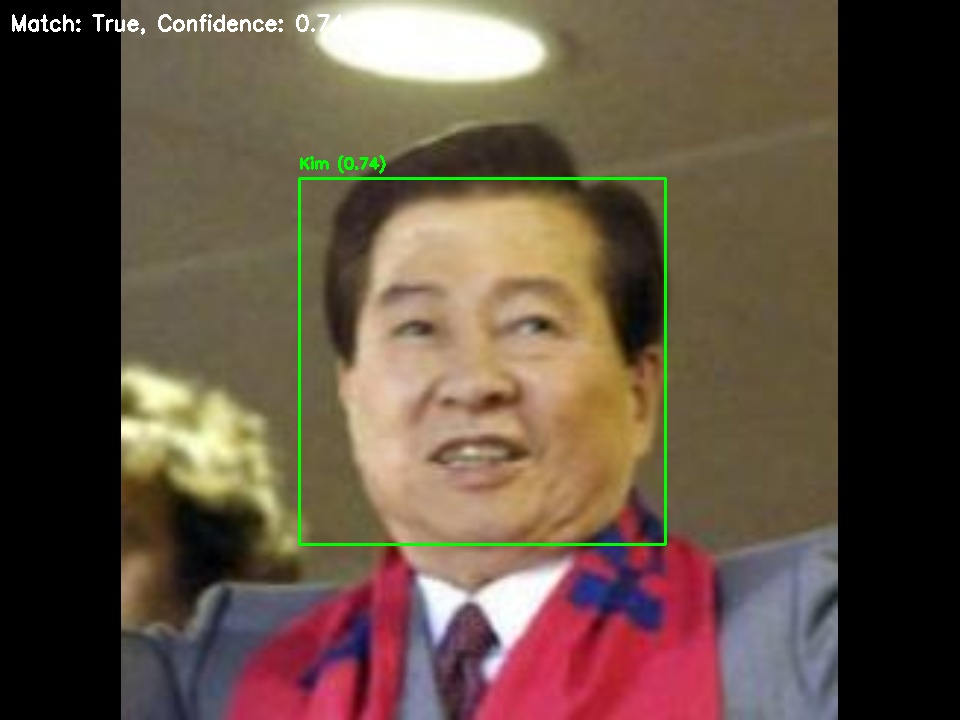
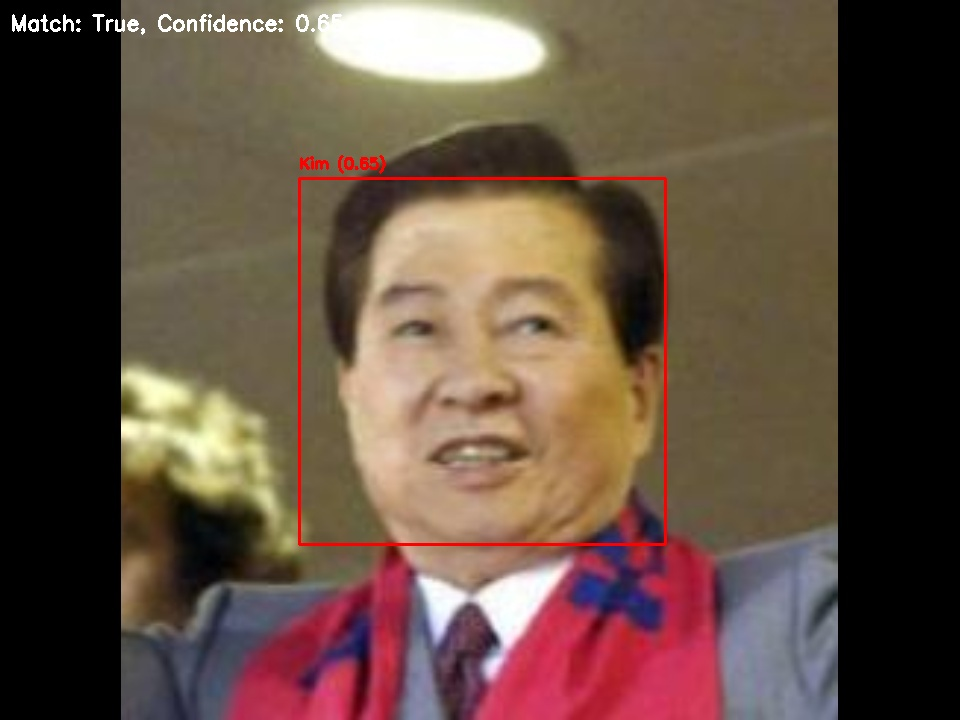
update inference mode to include landmarks

Changed region(s): [[0.3125, 0.2139, 0.7188, 0.7639]]

diff --git a/src/inference.py b/src/inference.py
@@ -6,8 +6,9 @@ import argparse
 import logging
 import warnings
 from pathlib import Path
-from utils.create_embedding import create_stable_embedding, save_embedding
+from utils.create_embedding import create_stable_features, save_features
 from utils.face_utils import process_image
+from utils.visualization import draw_results
 
 # Configure logging and suppress warnings
 logging.getLogger('tensorflow').setLevel(logging.ERROR)
@@ -55,10 +56,8 @@ def try_camera(device_id):
 def main():
     """Main function for real-time streaming face recognition."""
     parser = argparse.ArgumentParser(description='Real-time Face Recognition System')
-    parser.add_argument('--reference-dir', type=str,
-                      help='Directory containing reference images')
     parser.add_argument('--embeddings-file', type=str,
-                      help='File to store/load face embeddings')
+                      help='File to store/load face features')
     
     args = parser.parse_args()
 
@@ -67,17 +66,17 @@ def main():
     # Setup paths
     project_root = get_project_root()
     data_dir = get_data_dir()
-    reference_dir = args.reference_dir or (data_dir / "lfw_dataset/target")
+    reference_dir = data_dir / "lfw_dataset/target"  # Removed reference-dir argument
     embeddings_file = args.embeddings_file or (data_dir / "embeddings.npy")
     
-    # Load or create embeddings
+    # Load or create features
     try:
-        reference_embeddings = np.load(embeddings_file, allow_pickle=True).item()
+        reference_features = np.load(embeddings_file, allow_pickle=True).item()
     except FileNotFoundError:
-        print("No existing embeddings found. Creating new reference embeddings...")
-        name, embedding = create_stable_embedding(reference_dir)
-        save_embedding(name, embedding, embeddings_file.parent)
-        reference_embeddings = np.load(embeddings_file, allow_pickle=True).item()
+        print("No existing features found. Creating new reference features...")
+        name, features = create_stable_features(reference_dir)
+        save_features(name, features, embeddings_file.parent)
+        reference_features = np.load(embeddings_file, allow_pickle=True).item()
 
     # Try to open the camera
     cap = None
@@ -113,16 +112,10 @@ def main():
             fps = frame_count / elapsed_time
             print(f"FPS: {fps:.2f}")
 
-        results = process_image(frame, reference_embeddings)
+        results = process_image(frame, reference_features)
         
-        # Draw results on frame
-        for result in results:
-            x1, y1, x2, y2 = result['box']
-            color = (0, 255, 0) if result['is_match'] else (0, 0, 255)
-            cv2.rectangle(frame, (x1, y1), (x2, y2), color, 2)
-            label = f"{result['name']} ({result['similarity']:.2f})"
-            cv2.putText(frame, label, (x1, y1 - 10),
-                       cv2.FONT_HERSHEY_SIMPLEX, 0.5, color, 2)
+        # Draw results on frame with landmarks
+        draw_results(frame, results)
 
         # Display the resulting frame
         cv2.imshow('Facial Recognition', frame)

diff --git a/src/utils/visualization.py b/src/utils/visualization.py
@@ -1,0 +1,57 @@
+"""Utilities for visualizing face detection and recognition results."""
+
+import cv2
+import numpy as np
+
+def draw_landmarks(frame, landmarks, box, color=(0, 255, 0)):
+    """Draw facial landmarks on the frame.
+    
+    Args:
+        frame: Input frame to draw on
+        landmarks: Dictionary of facial landmarks
+        box: Bounding box coordinates [x1, y1, x2, y2]
+        color: Color for drawing landmarks (B,G,R)
+    """
+    if landmarks is None:
+        return
+        
+    # Scale landmark points based on face box
+    x1, y1, x2, y2 = box
+    face_width = x2 - x1
+    face_height = y2 - y1
+    
+    for feature, points in landmarks.items():
+        # Draw points for each facial feature
+        for point in points:
+            # Scale point coordinates to frame size
+            x = int(x1 + point[0] * face_width)
+            y = int(y1 + point[1] * face_height)
+            cv2.circle(frame, (x, y), 1, color, -1)
+            
+        # Draw lines connecting points
+        if len(points) > 1:
+            pts = np.array([(int(x1 + p[0] * face_width), 
+                           int(y1 + p[1] * face_height)) for p in points])
+            cv2.polylines(frame, [pts], False, color, 1)
+
+def draw_results(frame, results):
+    """Draw detection and recognition results on frame.
+    
+    Args:
+        frame: Input frame to draw on
+        results: List of detection and recognition results
+    """
+    for result in results:
+        # Draw bounding box
+        x1, y1, x2, y2 = result['box']
+        color = (0, 255, 0) if result['similarity'] >= 0.60 else (0, 0, 255)
+        cv2.rectangle(frame, (x1, y1), (x2, y2), color, 2)
+        
+        # Draw name and confidence
+        label = f"{result['name']} ({result['similarity']:.2f})"
+        cv2.putText(frame, label, (x1, y1 - 10),
+                   cv2.FONT_HERSHEY_SIMPLEX, 0.5, color, 2)
+                   
+        # Draw facial landmarks
+        if result['landmarks']:
+            draw_landmarks(frame, result['landmarks'], result['box'], color)
